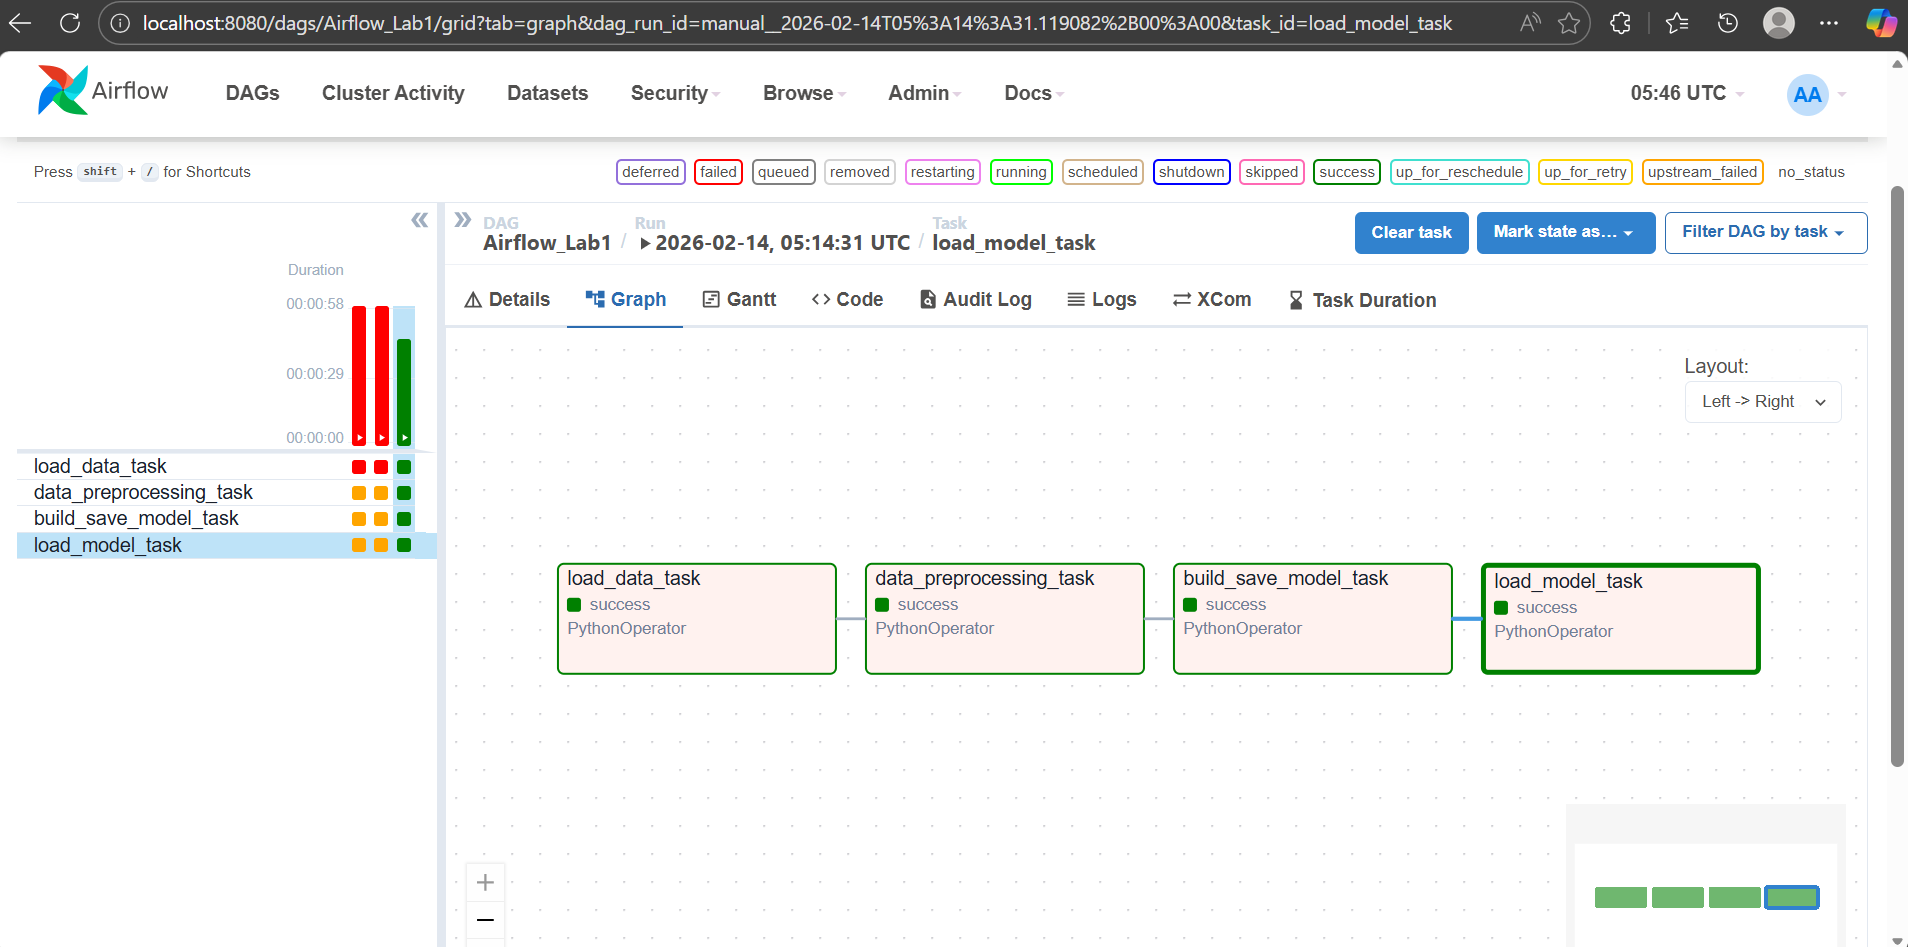
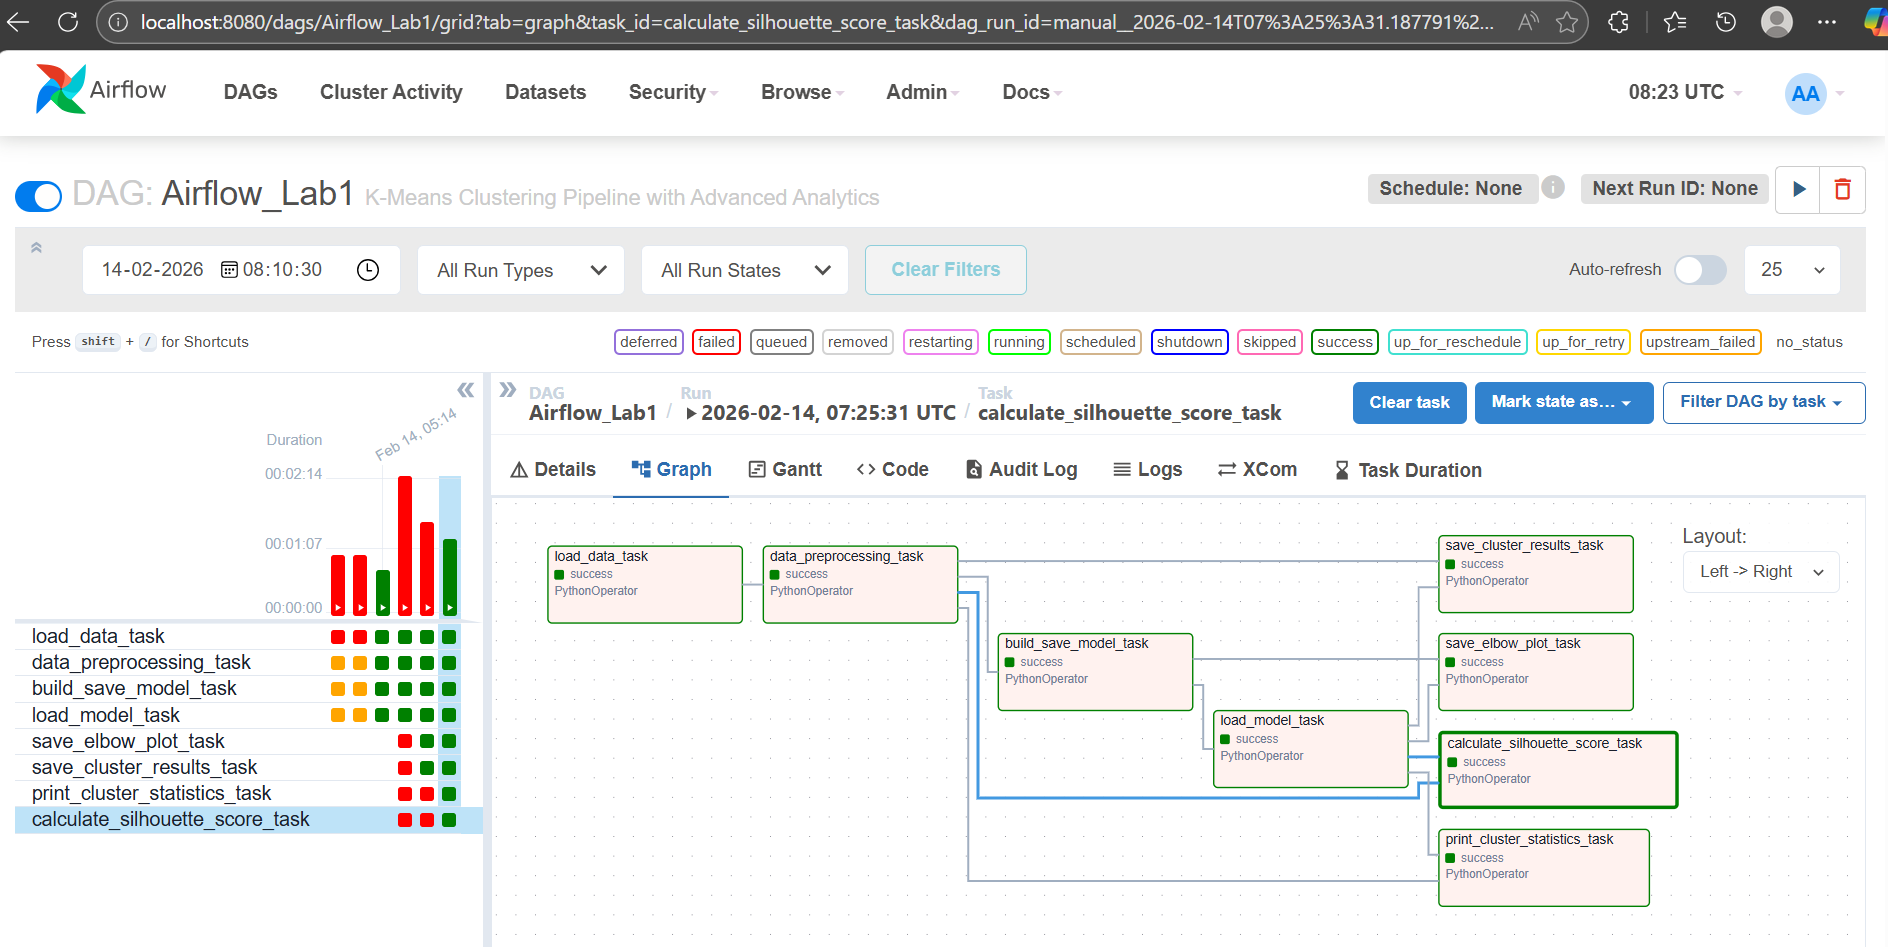
Updated README with all screenshots and extra features

diff --git a/dags/src/lab.py b/dags/src/lab.py
@@ -5,7 +5,6 @@ from sklearn.cluster import KMeans
 from sklearn.preprocessing import StandardScaler
 from kneed import KneeLocator
 
-
 def load_data():
     """
     Loads data from a CSV file, serializes it, and returns the serialized data.
@@ -15,6 +14,7 @@ def load_data():
     
     df = pd.read_csv(data_path)
     print(f"Data loaded. Shape: {df.shape}")
+    print(f"Columns: {df.columns.tolist()}")
     
     serialized_data = pickle.dumps(df)
     return serialized_data
@@ -105,3 +105,179 @@ def load_model_elbow(filename, sse):
     print(f"{'='*50}\n")
     
     return optimal_k
+
+
+# ============================================================
+# NEW FEATURE 1: Save Elbow Plot Visualization
+# ============================================================
+def save_elbow_plot(sse, optimal_k):
+    """
+    Creates and saves an elbow plot showing SSE vs K with the optimal point marked.
+    """
+    import matplotlib
+    matplotlib.use('Agg')
+    import matplotlib.pyplot as plt
+    
+    sse_values = pickle.loads(sse)
+    k_range = list(range(1, 11))
+    
+    script_dir = os.path.dirname(os.path.abspath(__file__))
+    output_dir = os.path.join(script_dir, '..', 'output')
+    os.makedirs(output_dir, exist_ok=True)
+    plot_path = os.path.join(output_dir, 'elbow_plot.png')
+    
+    # Create simple plot
+    plt.figure(figsize=(8, 5))
+    plt.plot(k_range, sse_values, 'b-o')
+    plt.axvline(x=optimal_k, color='r', linestyle='--', label=f'Optimal K={optimal_k}')
+    plt.xlabel('Number of Clusters (K)')
+    plt.ylabel('SSE')
+    plt.title('Elbow Method')
+    plt.legend()
+    plt.savefig(plot_path)
+    plt.close()
+    
+    print(f"\n{'='*50}")
+    print(f"ELBOW PLOT SAVED TO: {plot_path}")
+    print(f"{'='*50}\n")
+    
+    return plot_path
+
+# ============================================================
+# NEW FEATURE 2: Save Cluster Results to CSV
+# ============================================================
+def save_cluster_results(data, filename, optimal_k):
+    """
+    Assigns each data point to a cluster and saves results to CSV.
+    """
+    script_dir = os.path.dirname(os.path.abspath(__file__))
+    
+    # Load original data
+    data_path = os.path.join(script_dir, '..', 'data', 'file.csv')
+    original_df = pd.read_csv(data_path)
+    
+    # Load scaled data
+    scaled_data = pickle.loads(data)
+    
+    # Load the optimal model
+    model_path = os.path.join(script_dir, '..', 'model', filename)
+    with open(model_path, 'rb') as f:
+        models = pickle.load(f)
+    
+    optimal_model = models[optimal_k]
+    
+    # Predict clusters
+    clusters = optimal_model.predict(scaled_data)
+    
+    # Add cluster column to original data
+    original_df['cluster'] = clusters
+    
+    # Save to CSV
+    output_dir = os.path.join(script_dir, '..', 'output')
+    os.makedirs(output_dir, exist_ok=True)
+    output_path = os.path.join(output_dir, 'clustered_customers.csv')
+    original_df.to_csv(output_path, index=False)
+    
+    print(f"\n{'='*50}")
+    print(f"CLUSTER RESULTS SAVED TO: {output_path}")
+    print(f"Total customers: {len(original_df)}")
+    print(f"Clusters assigned: {original_df['cluster'].nunique()}")
+    print(f"{'='*50}\n")
+    
+    return output_path
+
+
+# ============================================================
+# NEW FEATURE 3: Print Cluster Statistics
+# ============================================================
+def print_cluster_statistics(data, filename, optimal_k):
+    """
+    Prints detailed statistics about each cluster.
+    """
+    script_dir = os.path.dirname(os.path.abspath(__file__))
+    
+    # Load original data
+    data_path = os.path.join(script_dir, '..', 'data', 'file.csv')
+    original_df = pd.read_csv(data_path)
+    
+    # Load scaled data
+    scaled_data = pickle.loads(data)
+    
+    # Load the optimal model
+    model_path = os.path.join(script_dir, '..', 'model', filename)
+    with open(model_path, 'rb') as f:
+        models = pickle.load(f)
+    
+    optimal_model = models[optimal_k]
+    
+    # Predict clusters
+    clusters = optimal_model.predict(scaled_data)
+    original_df['cluster'] = clusters
+    
+    print(f"\n{'='*60}")
+    print(f"CLUSTER STATISTICS (K={optimal_k})")
+    print(f"{'='*60}\n")
+    
+    # Get numeric columns automatically (exclude cluster column)
+    numeric_cols = original_df.select_dtypes(include=['float64', 'int64']).columns.tolist()
+    if 'cluster' in numeric_cols:
+        numeric_cols.remove('cluster')
+    
+    for cluster_id in range(optimal_k):
+        cluster_data = original_df[original_df['cluster'] == cluster_id]
+        print(f"--- CLUSTER {cluster_id} ---")
+        print(f"    Size: {len(cluster_data)} customers ({len(cluster_data)/len(original_df)*100:.1f}%)")
+        
+        for col in numeric_cols:
+            print(f"    Avg {col}: {cluster_data[col].mean():.2f}")
+        print()
+    
+    print(f"{'='*60}\n")
+    
+    return "Statistics printed successfully"
+
+
+# ============================================================
+# NEW FEATURE 4: Calculate Silhouette Score
+# ============================================================
+def calculate_silhouette_score(data, filename, optimal_k):
+    """
+    Calculates the silhouette score for the optimal clustering.
+    """
+    from sklearn.metrics import silhouette_score as sklearn_silhouette_score
+    
+    scaled_data = pickle.loads(data)
+    
+    script_dir = os.path.dirname(os.path.abspath(__file__))
+    model_path = os.path.join(script_dir, '..', 'model', filename)
+    
+    with open(model_path, 'rb') as f:
+        models = pickle.load(f)
+    
+    optimal_model = models[optimal_k]
+    clusters = optimal_model.predict(scaled_data)
+    
+    # Calculate silhouette score
+    score = sklearn_silhouette_score(scaled_data, clusters)
+    
+    print(f"\n{'='*60}")
+    print(f"SILHOUETTE SCORE ANALYSIS")
+    print(f"{'='*60}")
+    print(f"Optimal K: {optimal_k}")
+    print(f"Silhouette Score: {score:.4f}")
+    print()
+    
+    # Interpret the score
+    if score >= 0.7:
+        interpretation = "EXCELLENT - Clusters are well defined"
+    elif score >= 0.5:
+        interpretation = "GOOD - Clusters have reasonable structure"
+    elif score >= 0.25:
+        interpretation = "FAIR - Clusters are overlapping but meaningful"
+    else:
+        interpretation = "WEAK - Clusters may not be well separated"
+    
+    print(f"Interpretation: {interpretation}")
+    print(f"{'='*60}\n")
+    
+    return score

diff --git a/dags/airflow.py b/dags/airflow.py
@@ -1,7 +1,16 @@
 from airflow import DAG
 from airflow.operators.python_operator import PythonOperator
 from datetime import datetime, timedelta
-from src.lab import load_data, data_preprocessing, build_save_model, load_model_elbow
+from src.lab import (
+    load_data, 
+    data_preprocessing, 
+    build_save_model, 
+    load_model_elbow,
+    save_elbow_plot,           # NEW FEATURE 1
+    save_cluster_results,      # NEW FEATURE 2
+    print_cluster_statistics,  # NEW FEATURE 3
+    calculate_silhouette_score # NEW FEATURE 4
+)
 from airflow import configuration as conf
 
 # Enable pickle support for XCom
@@ -9,7 +18,7 @@ conf.set('core', 'enable_xcom_pickling', 'True')
 
 # Default arguments
 default_args = {
-    'owner': 'Sanjana Menon',
+    'owner': 'sanjana',
     'start_date': datetime(2023, 9, 17),
     'retries': 0,
     'retry_delay': timedelta(minutes=5),
@@ -19,7 +28,7 @@ default_args = {
 dag = DAG(
     'Airflow_Lab1',
     default_args=default_args,
-    description='K-Means Clustering Pipeline',
+    description='K-Means Clustering Pipeline with Advanced Analytics',
     schedule_interval=None,
     catchup=False,
 )
@@ -56,8 +65,52 @@ load_model_task = PythonOperator(
     dag=dag,
 )
 
+# ============================================================
+# NEW FEATURE 1: Save Elbow Plot
+# ============================================================
+save_plot_task = PythonOperator(
+    task_id='save_elbow_plot_task',
+    python_callable=save_elbow_plot,
+    op_args=[build_save_model_task.output, load_model_task.output],
+    dag=dag,
+)
+
+# ============================================================
+# NEW FEATURE 2: Save Cluster Results to CSV
+# ============================================================
+save_results_task = PythonOperator(
+    task_id='save_cluster_results_task',
+    python_callable=save_cluster_results,
+    op_args=[data_preprocessing_task.output, "model.sav", load_model_task.output],
+    dag=dag,
+)
+
+# ============================================================
+# NEW FEATURE 3: Print Cluster Statistics
+# ============================================================
+print_stats_task = PythonOperator(
+    task_id='print_cluster_statistics_task',
+    python_callable=print_cluster_statistics,
+    op_args=[data_preprocessing_task.output, "model.sav", load_model_task.output],
+    dag=dag,
+)
+
+# ============================================================
+# NEW FEATURE 4: Calculate Silhouette Score
+# ============================================================
+silhouette_task = PythonOperator(
+    task_id='calculate_silhouette_score_task',
+    python_callable=calculate_silhouette_score,
+    op_args=[data_preprocessing_task.output, "model.sav", load_model_task.output],
+    dag=dag,
+)
+
 # Set dependencies
+# Original flow
 load_data_task >> data_preprocessing_task >> build_save_model_task >> load_model_task
+
+# New features run in parallel after load_model_task
+load_model_task >> [save_plot_task, save_results_task, print_stats_task, silhouette_task]
 
 if __name__ == "__main__":
     dag.cli()
